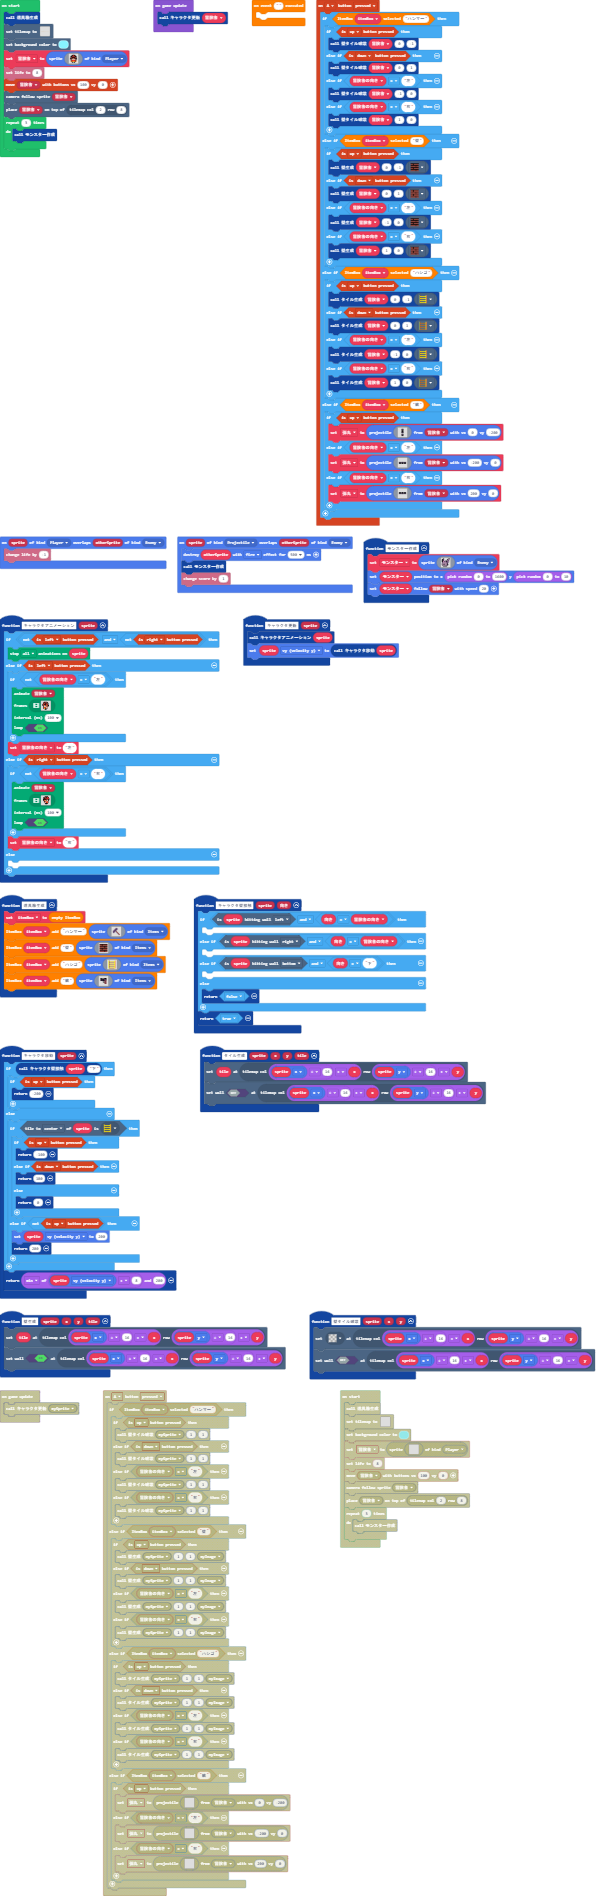
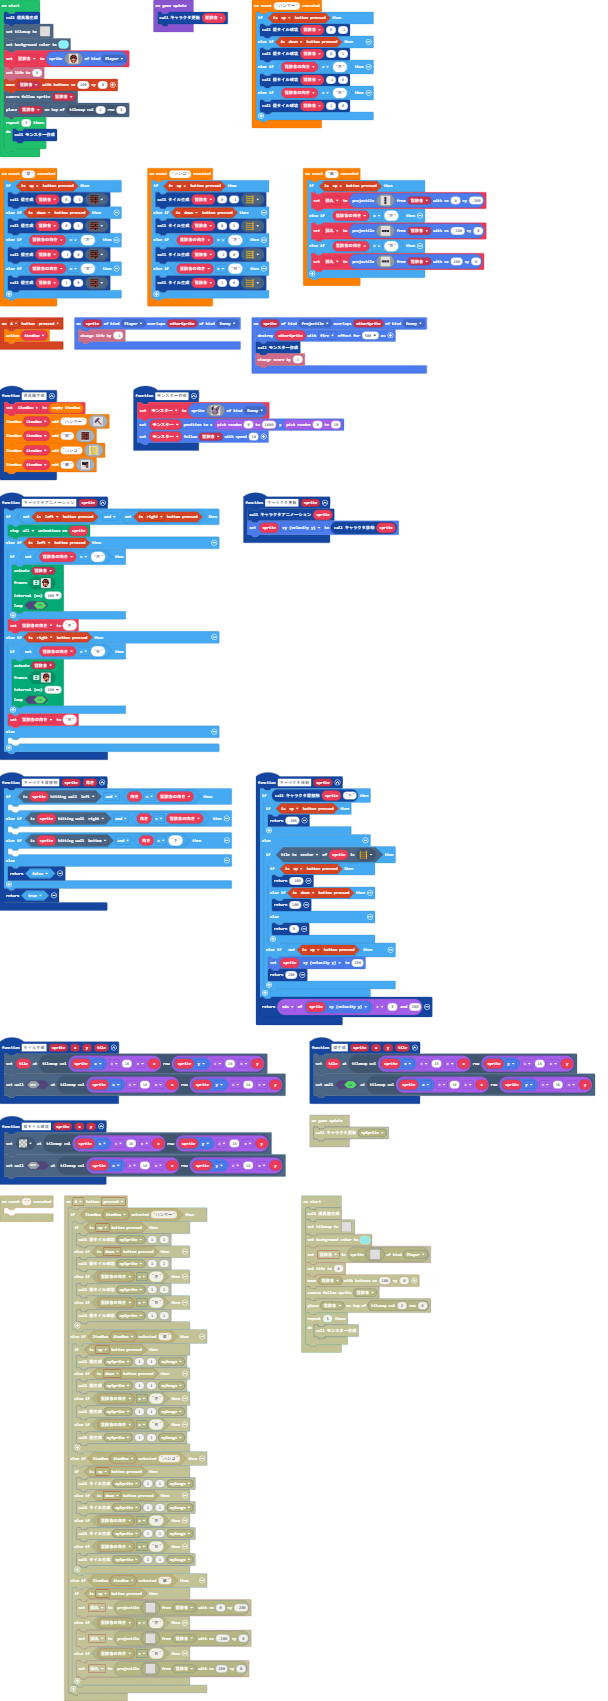
Update pxt.json, main.blocks, main.ts, itembox.ts

diff --git a/main.ts b/main.ts
@@ -5,6 +5,17 @@ function タイル生成 (sprite: Sprite, x: number, y: number, tile: Image) {
     tiles.setTileAt(tiles.getTileLocation(sprite.x / 16 + x, sprite.y / 16 + y), tile)
     tiles.setWallAt(tiles.getTileLocation(sprite.x / 16 + x, sprite.y / 16 + y), false)
 }
+Items.onEvent("ハシゴ", function () {
+    if (controller.up.isPressed()) {
+        タイル生成(冒険者, 0, -1, assets.tile`ハシゴタイル`)
+    } else if (controller.down.isPressed()) {
+        タイル生成(冒険者, 0, 1, assets.tile`ハシゴタイル`)
+    } else if (冒険者の向き == "左") {
+        タイル生成(冒険者, -1, 0, assets.tile`ハシゴタイル`)
+    } else if (冒険者の向き == "右") {
+        タイル生成(冒険者, 1, 0, assets.tile`ハシゴタイル`)
+    }
+})
 function モンスター作成 () {
     モンスター = sprites.create(img`
         . . f f f . . . . . . . . f f f 
@@ -27,49 +38,22 @@ function モンスター作成 () {
     モンスター.setPosition(randint(0, 1600), randint(0, 10))
     モンスター.follow(冒険者, 20)
 }
+Items.onEvent("壁", function () {
+    if (controller.up.isPressed()) {
+        壁生成(冒険者, 0, -1, assets.tile`壁タイル`)
+    } else if (controller.down.isPressed()) {
+        壁生成(冒険者, 0, 1, assets.tile`壁タイル`)
+    } else if (冒険者の向き == "左") {
+        壁生成(冒険者, -1, 0, assets.tile`壁タイル`)
+    } else if (冒険者の向き == "右") {
+        壁生成(冒険者, 1, 0, assets.tile`壁タイル`)
+    }
+})
 controller.B.onEvent(ControllerButtonEvent.Pressed, function () {
     controller.moveSprite(冒険者, 0, 0)
 })
 controller.A.onEvent(ControllerButtonEvent.Pressed, function () {
-    if (itemBox.isSelected("ハンマー")) {
-        if (controller.up.isPressed()) {
-            壁タイル破壊(冒険者, 0, -1)
-        } else if (controller.down.isPressed()) {
-            壁タイル破壊(冒険者, 0, 1)
-        } else if (冒険者の向き == "左") {
-            壁タイル破壊(冒険者, -1, 0)
-        } else if (冒険者の向き == "右") {
-            壁タイル破壊(冒険者, 1, 0)
-        }
-    } else if (itemBox.isSelected("壁")) {
-        if (controller.up.isPressed()) {
-            壁生成(冒険者, 0, -1, assets.tile`壁タイル`)
-        } else if (controller.down.isPressed()) {
-            壁生成(冒険者, 0, 1, assets.tile`壁タイル`)
-        } else if (冒険者の向き == "左") {
-            壁生成(冒険者, -1, 0, assets.tile`壁タイル`)
-        } else if (冒険者の向き == "右") {
-            壁生成(冒険者, 1, 0, assets.tile`壁タイル`)
-        }
-    } else if (itemBox.isSelected("ハシゴ")) {
-        if (controller.up.isPressed()) {
-            タイル生成(冒険者, 0, -1, assets.tile`ハシゴタイル`)
-        } else if (controller.down.isPressed()) {
-            タイル生成(冒険者, 0, 1, assets.tile`ハシゴタイル`)
-        } else if (冒険者の向き == "左") {
-            タイル生成(冒険者, -1, 0, assets.tile`ハシゴタイル`)
-        } else if (冒険者の向き == "右") {
-            タイル生成(冒険者, 1, 0, assets.tile`ハシゴタイル`)
-        }
-    } else if (itemBox.isSelected("銃")) {
-        if (controller.up.isPressed()) {
-            弾丸 = sprites.createProjectileFromSprite(assets.image`弾丸0`, 冒険者, 0, -200)
-        } else if (冒険者の向き == "左") {
-            弾丸 = sprites.createProjectileFromSprite(assets.image`弾丸`, 冒険者, -200, 0)
-        } else if (冒険者の向き == "右") {
-            弾丸 = sprites.createProjectileFromSprite(assets.image`弾丸`, 冒険者, 200, 0)
-        }
-    }
+    itemBox.action()
 })
 controller.left.onEvent(ControllerButtonEvent.Pressed, function () {
     if (controller.B.isPressed()) {
@@ -78,11 +62,31 @@ controller.left.onEvent(ControllerButtonEvent.Pressed, function () {
 })
 function 道具箱生成 () {
     itemBox = Items.createEmptyItemBox()
-    itemBox.add("ハンマー", sprites.create(assets.image`ハンマー`, SpriteKind.Items))
-    itemBox.add("壁", sprites.create(assets.tile`壁タイル`, SpriteKind.Items))
-    itemBox.add("ハシゴ", sprites.create(assets.tile`ハシゴタイル`, SpriteKind.Items))
-    itemBox.add("銃", sprites.create(assets.image`ハンドガン`, SpriteKind.Items))
+    itemBox.add("ハンマー", assets.image`ハンマー`)
+    itemBox.add("壁", assets.tile`壁タイル`)
+    itemBox.add("ハシゴ", assets.tile`ハシゴタイル`)
+    itemBox.add("銃", assets.image`ハンドガン`)
 }
+Items.onEvent("銃", function () {
+    if (controller.up.isPressed()) {
+        弾丸 = sprites.createProjectileFromSprite(assets.image`弾丸0`, 冒険者, 0, -200)
+    } else if (冒険者の向き == "左") {
+        弾丸 = sprites.createProjectileFromSprite(assets.image`弾丸`, 冒険者, -200, 0)
+    } else if (冒険者の向き == "右") {
+        弾丸 = sprites.createProjectileFromSprite(assets.image`弾丸`, 冒険者, 200, 0)
+    }
+})
+Items.onEvent("ハンマー", function () {
+    if (controller.up.isPressed()) {
+        壁タイル破壊(冒険者, 0, -1)
+    } else if (controller.down.isPressed()) {
+        壁タイル破壊(冒険者, 0, 1)
+    } else if (冒険者の向き == "左") {
+        壁タイル破壊(冒険者, -1, 0)
+    } else if (冒険者の向き == "右") {
+        壁タイル破壊(冒険者, 1, 0)
+    }
+})
 function キャラクタ更新 (sprite: Sprite) {
     キャラクタアニメーション(sprite)
     sprite.vy = キャラクタ移動(sprite)
@@ -91,9 +95,6 @@ controller.right.onEvent(ControllerButtonEvent.Pressed, function () {
     if (controller.B.isPressed()) {
         itemBox.next()
     }
-})
-Items.onEvent("", function () {
-	
 })
 function 壁生成 (sprite: Sprite, x: number, y: number, tile: Image) {
     tiles.setTileAt(tiles.getTileLocation(sprite.x / 16 + x, sprite.y / 16 + y), tile)
@@ -311,9 +312,9 @@ sprites.onOverlap(SpriteKind.Player, SpriteKind.Enemy, function (sprite, otherSp
     info.changeLifeBy(-1)
 })
 let 弾丸: Sprite = null
-let 冒険者の向き = ""
 let itemBox: ItemBox = null
 let モンスター: Sprite = null
+let 冒険者の向き = ""
 let 冒険者: Sprite = null
 道具箱生成()
 tiles.setTilemap(tilemap`level1`)

diff --git a/itembox.ts b/itembox.ts
@@ -126,10 +126,11 @@ class ItemBox {
      * Use "$this" to define a variable block that
      * references the "this" pointer.
      * @param name
-     * @param sprite
+     * @param Image
      */
-    //% block="ItemBox $this(itemBox) add $name $sprite "    
-    add(name:string, sprite: Sprite) {
+    //% block="ItemBox $this(itemBox) add $name $img=screen_image_picker "    
+    add(name:string, img: Image) {
+        let sprite = sprites.create(img, SpriteKind.ItemsFrame);
         let item = new Item(name, sprite);
         this._items.push(item);
 
@@ -142,12 +143,17 @@ class ItemBox {
         this._updateFocus();
     }
 
-    //% block="update ItemBox $this(itemBox) selected %img=screen_image_picker "    
-    updateImage(img: Image) {
+    //% block="action $this(itemBox)"    
+    action() {
+        let item = this._items[this._selected];
+        if( !item )
+            return;
+        let listener = this._findListenerByName(item._name);
+        if( !listener )
+            return;
+        listener._handler();
 
     }
-
-
 
     //% block="ItemBox $this(itemBox) selected $name "    
     isSelected(name:string) : boolean {
